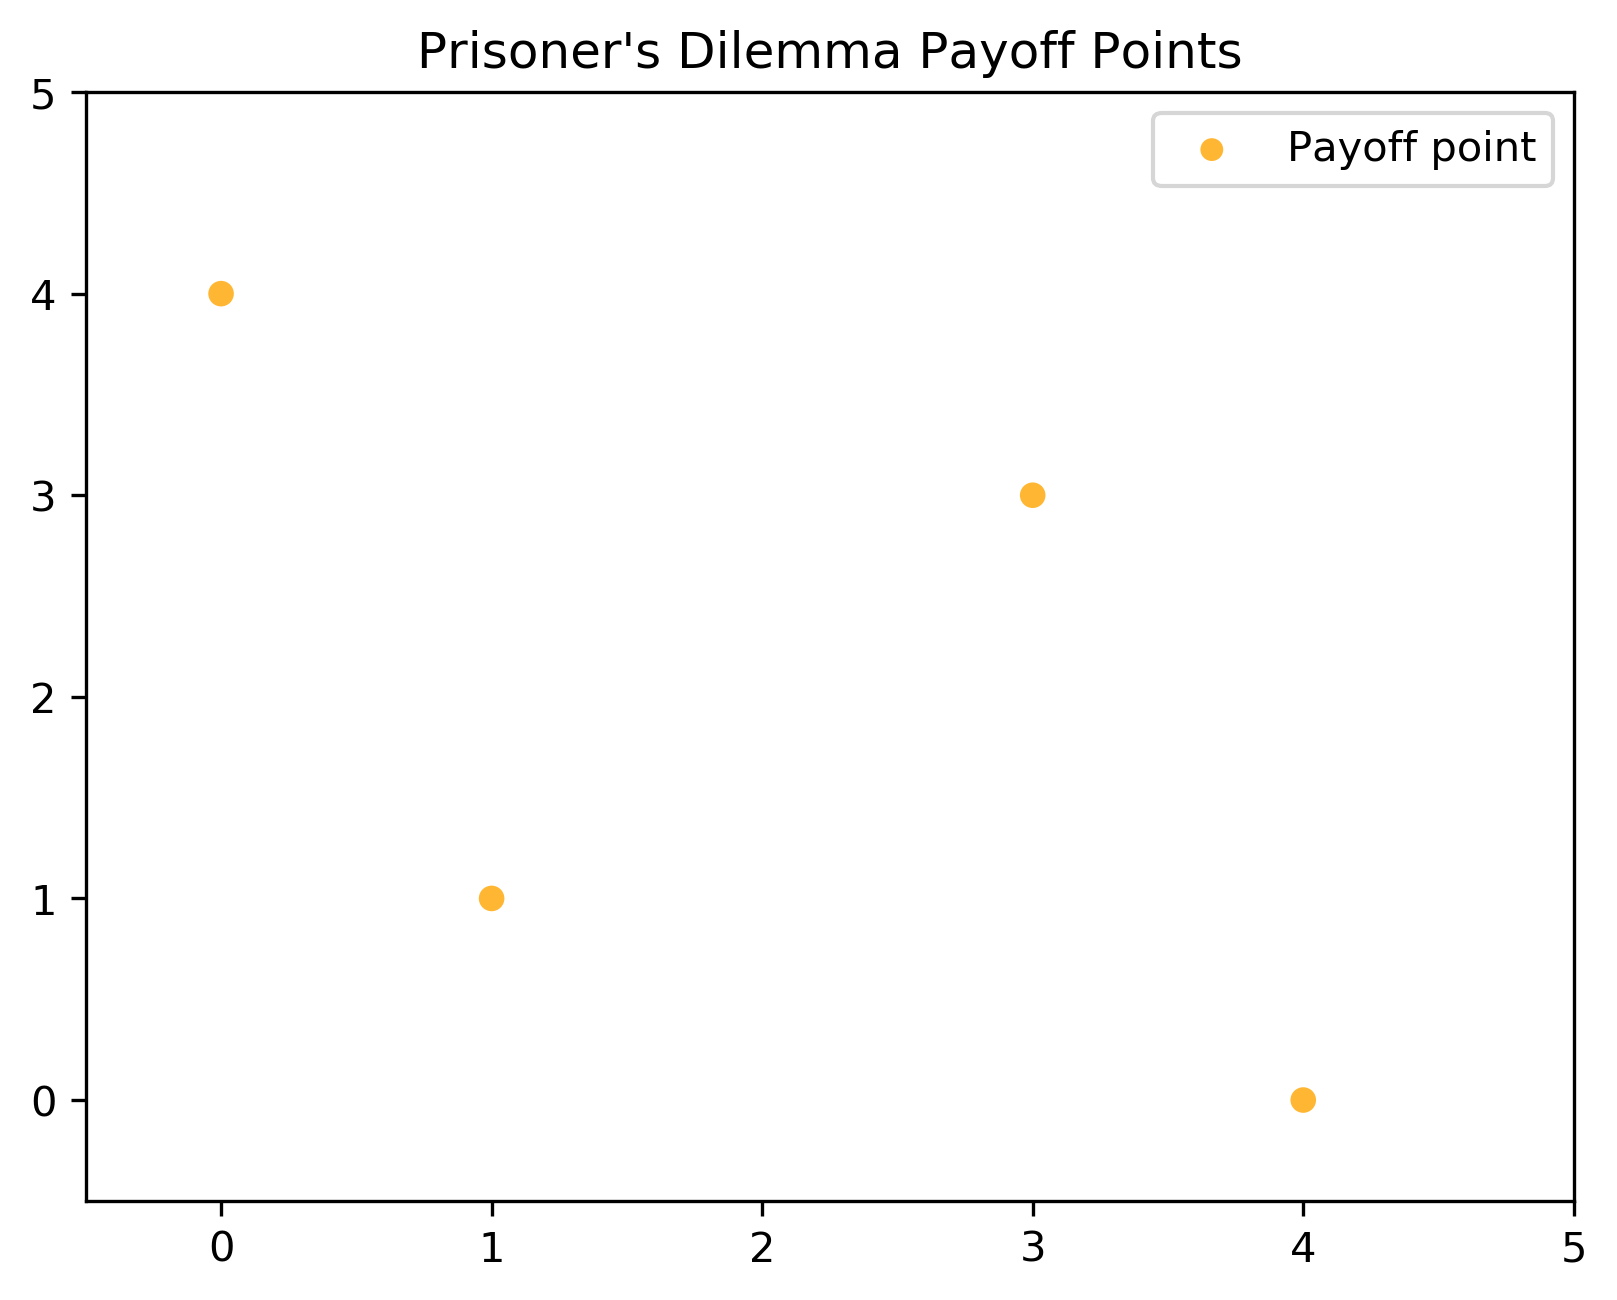
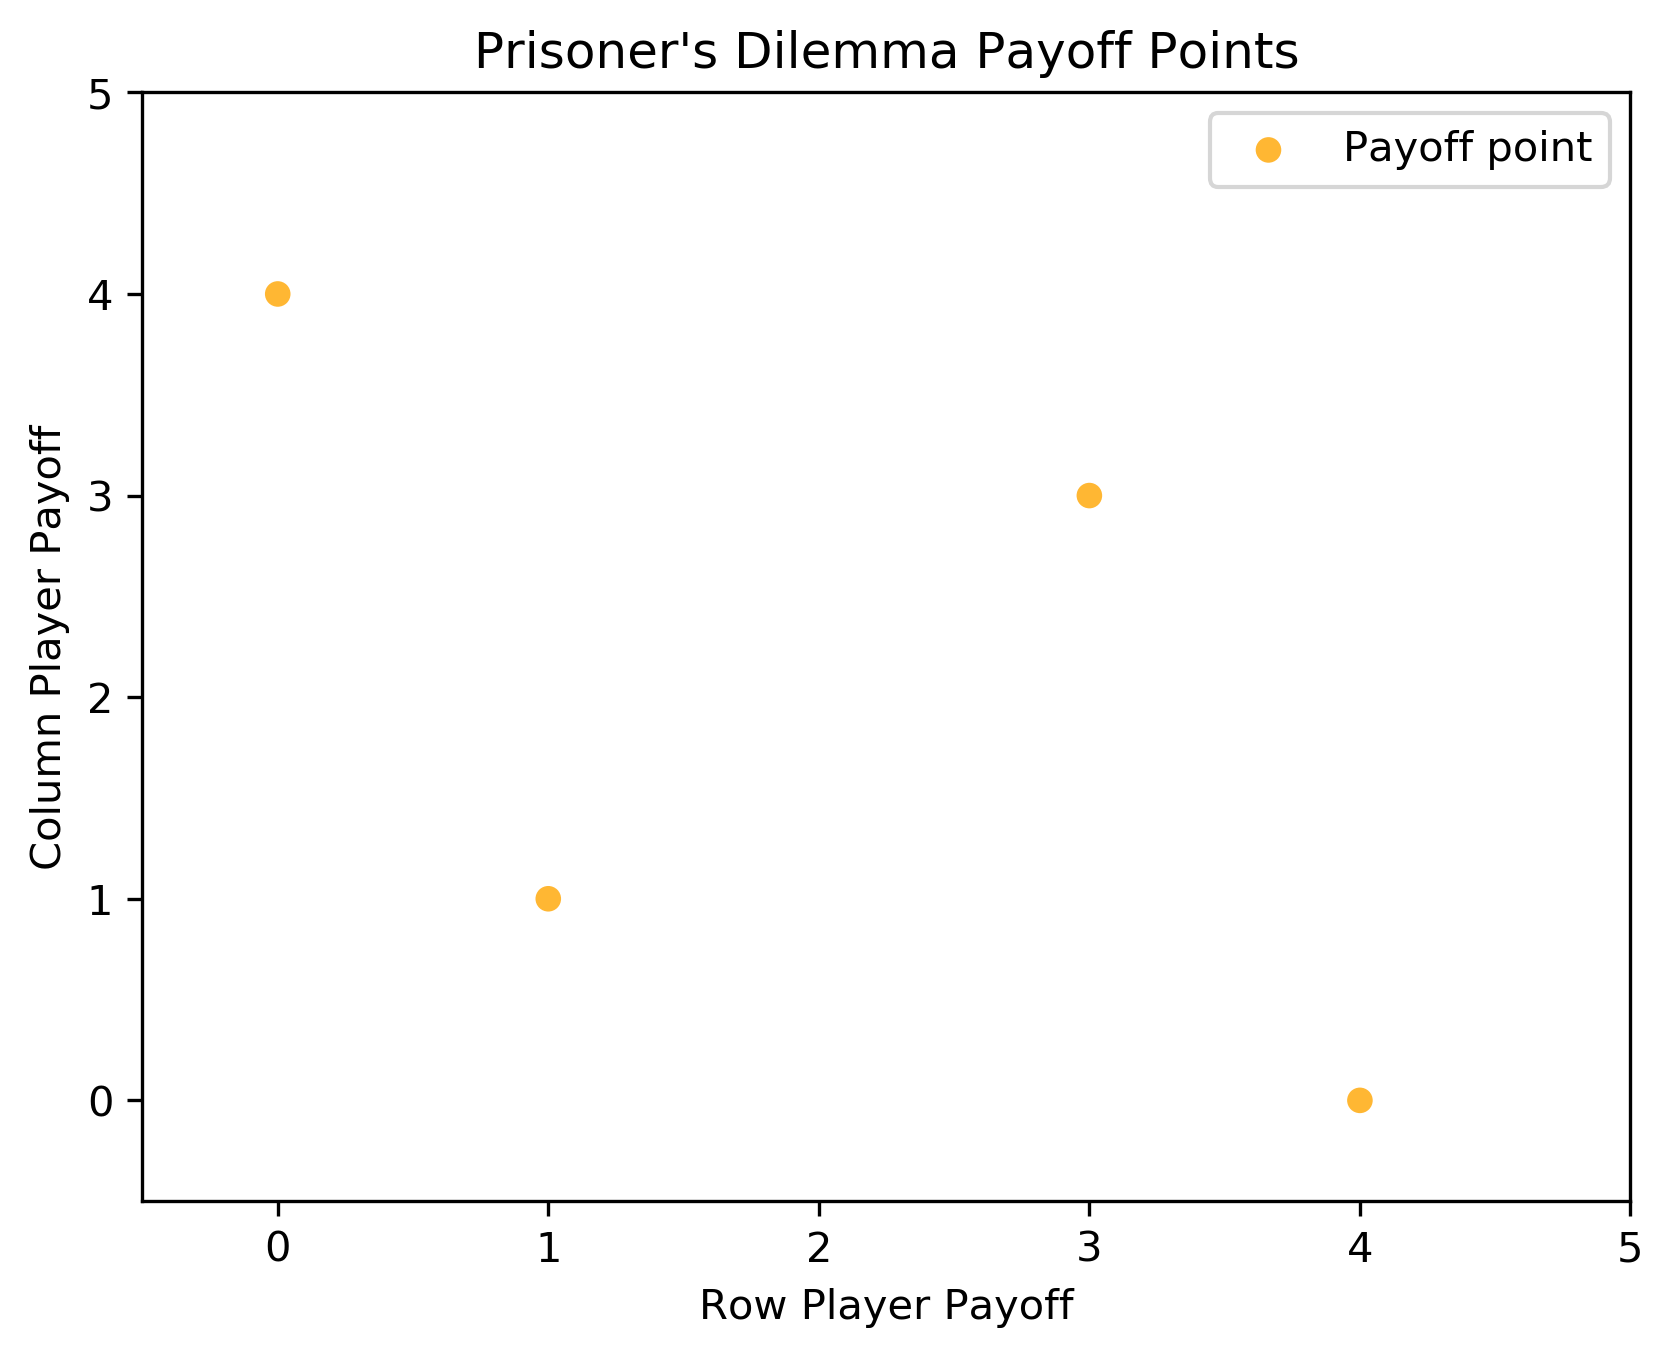
Work on results section  + scripts to generate figs

diff --git a/docs/thesis/thesis.tex b/docs/thesis/thesis.tex
@@ -92,6 +92,7 @@
 
 \tableofcontents
 \newpage
+\listoffigures
 \chapter{Introduction}
 \section{Preamble}
 \section{Motivation \& Objectives}
@@ -114,7 +115,7 @@ This work finds that under certain assumptions a utility function that is centre
 This utility function is given in equation \ref{linearESSEquation}, in which \textit{x} and \textit{y} are types in the population and $\alpha$ is equal to the \textit{index of assortativity}.
 \begin{equation}
 	\label{linearESSEquation}
-	u_\alpha(x, y, ) = \Pi(x,y) + \alpha\Pi(y,x)
+	u_\alpha(x, y) = \Pi(x,y) + \alpha\Pi(y,x)
 \end{equation}
 
 \noindent To achieve this, the authors assume that all types have a utility function of the same form as \ref{linearESSEquation} where $\alpha \in (-1, 1)$ \citep[p. ~47]{alger_generalization_2012}.
@@ -144,11 +145,11 @@ An oft used fitness measure requires that for an invasion to occur, a mutant mus
 \np Of course, these assumptions are all made within the context of a model that is static.
 The conclusions drawn in the work referenced above tend to be of the form \textit{should} a utility function of the form \textit{x} evolve it will result in evolutionary stable play given the assumptions.
 The experimental framework we create intends to investigate these conclusions and assumptions in a dynamically evolving environment.
-\todo{emphasise how big an asusmption static is}
+\todo{emphasise how big an assumption static is}
 
 
 
-\section{The Experimental Framework}
+\section{The Experimental Framework}\label{experimentalFramework}
 A large part of the work undertaken in support of this research involved the creation of an experimental framework that could be used to attempt to recover the results of \citet{alger_generalization_2012} in a dynamically evolving environment.
 At a high level this experimental framework is simple, however when digging into the detail, complications arise.
 Fundamentally, the framework is made up of a representation of a utility function, 
@@ -233,8 +234,8 @@ With this assumption in mind, \ref{symmetricGame} shows the payoff structure of 
 For example, using a prisoner's dilemma type we can write down a game with the payoff structure detailed in figure \ref{symmetricGame} with payoffs $c > a > d > b$.
 Next, we investigate how preferences form when individuals play many different symmetric games in one interaction.
 Now, the payoffs $a$ through $d$ are determined as follows:
-\begin{center}
-	
+
+\begin{center}\label{a_through_d}	
 $a \sim U(0,\phi) \qquad a \in I$
 
 $b \sim U(0,\phi) \qquad b \in I$
@@ -266,33 +267,6 @@ Both of these representations will be discussed in detail in the following chapt
 
 \chapter{Results \& Discussion}\label{results_discussion}
 
-\paragraph{Games matter}
-		
-> Must sample many different kinds of games.
-\np When running simulations in which each type's fitness is determined by their expected payoff when playing the above game,
-it becomes clear that only mutations that occur near to the payoff points ever lead to invasions. 
-The payoff points are the four potential outcomes (in terms of payoffs for each player) of the game: (3,3), (0,4), (4, 0) \& (1, 1).
-Plotted in figure \ref{prisoners_payoff_plot}.
-\begin{figure}
-	\centering
-	\includegraphics[scale=0.75]{resources/prisoners_dilemma_payoffs.png}
-	\caption{The payoff points in a prisoner's dilemma game.}
-	\label{prisoners_payoff_plot}
-\end{figure}
-
-\np The fact that limited invasions occur in this scenario makes sense when several facts about the model are considered:
-\begin{enumerate}[label=(\alph*)]
-	\item mutations can occur anywhere within the space and are small.
-	\item the fitness of the agents (resident and mutant) is equal in areas of the surface not affected by the mutation.
-	\item for a mutant to invade, they must achieve a fitness \textit{greater} than that achieved by the resident - as opposed to greater than or equal to.	
-\end{enumerate} 
-\np
-So, if a mutation occurs at the point (2, 2), given that this mutation has a relatively small radius, 
-the expected payoff of the mutant will not differ from that of the resident because the mutation does not touch any of the payoff points.
-Hence, the fitnesses are equal, and no invasion occurs. Running large scale simulations using this model results in `utility surfaces' like figure \todo{prisoner's dillema run}.
-
-> JTB result is strongly dependent on the assumption of symmetric games.
-
 \noindent> Phenotypic mutation takes ages.
 
 \noindent> Successful symbolic regression results are strongly dependent on un-biased (or maybe `biased in the right way') grammars.
@@ -311,7 +285,6 @@ Figure \ref{selfishUtilitySurface} is an example of a purely selfish utility sur
 	\caption{An example of a purely selfish type represented as a `utility surface'.}
 	\label{selfishUtilitySurface}
 \end{figure}
-
 
 \np This method has two immediate limitations. 
 The first is that the matrix is only defined for a certain payoff range and so a value, $\phi$ must be provided that represents the maximum \textit{payoff} achievable by either individual.
@@ -339,17 +312,90 @@ Figure \ref{selfishUtilityGrid} is an example of the grid values of a utility su
 This perturbation takes the shape of a bivariate normal distribution with some random $\sigma$, $\sigma \leq \gamma$, where $\gamma$ is parameter of the model.
 This method ensures that mutations are small.
 It also has the effect of creating \textit{localised} mutations: mutations that only affect a certain area of the surface rather than the shape of the surface overall.
-It turns out that the localised nature of these mutations is important and will be discussed in proceeding sections. Figure 
+It turns out that the localised nature of these mutations is important and will be discussed in proceeding sections.
+Figure \ref{selfishUtilitySurfaceOneMutation} shows our selfish utility surface from \ref{selfishUtilitySurface} after one mutation has been applied.
 
 \begin{figure}
 	\centering
-	\includegraphics[scale=0.75]{resources/one_mutation.png}
+	\includegraphics[scale=0.7]{resources/one_mutation.png}
 	\caption{The selfish utility surface after one mutation has been applied at the point (3, 3).}
 	\label{selfishUtilitySurfaceOneMutation}
 \end{figure}
 
+\subsection{Games Matter}
+
+One of the things that we learn by subjecting the described phenotype to evolution is that the kinds of games that are used to evaluate the fitness of individuals are important.
+We begin with a model that uses only a single kind of game to evaluate the fitness of individuals.
+Next we move to a conception of fitness that is an aggregation of individuals performance in many different kinds of games.
+We use this conception in the symmetric and asymmetric case.
+
+\paragraph{Single-Game Fitness Measure}
+\np In \ref{experimentalFramework} we discuss an approach in which individual fitness is determined based off  how the types perform in one common kind of non-cooperative game, namely prisoner's dilemma.
+Using the game structure defined in figure \ref{symmetricGame} we can construct a prisoner's dilemma by setting the following payoffs:
+\begin{gather*}
+	a = 3\\
+	b = 0\\
+	c = 4\\
+	d = 1
+\end{gather*}
+
+\np When running simulations in which each type's fitness is determined by their expected payoff when playing the above game,
+it becomes clear that only mutations that occur near to the payoff points ever lead to invasions. 
+The payoff points are the four potential outcomes (in terms of payoffs for each player) of the game: (3,3), (0,4), (4, 0) \& (1, 1).
+Plotted in figure \ref{prisoners_payoff_plot}.
+\begin{figure}
+	\centering
+	\includegraphics[scale=0.5]{resources/prisoners_dilemma_payoffs.png}
+	\caption{The payoff points in a prisoner's dilemma game.}
+	\label{prisoners_payoff_plot}
+\end{figure}
+
+\np The fact that limited invasions occur in this scenario makes sense when several facts about the model are considered:
+\begin{enumerate}[label=(\alph*)]
+	\item mutations can occur anywhere within the space and are small.
+	\item the fitness of the individuals (resident and mutant) is equal in areas of the surface not affected by the mutation.
+	\item for a mutant to invade, they must achieve a fitness \textit{greater} than that achieved by the resident - as opposed to greater than or equal to.	
+\end{enumerate} 
+\np
+So, if a mutation occurs at the point (2, 2), given that this mutation has a relatively small radius, 
+the expected payoff of the mutant will not differ from that of the resident because the mutation does not touch any of the payoff points.
+Hence, the fitnesses are equal, and no invasion occurs.
+Running large scale simulations using this model results in `utility surfaces' like figure 
+\np \todo{prisoner's dilemma run}.
+\todo{distance/fitness measure of prisoner's dilemma run}
+
+\np So, while our source material tends to equivocate in regard to what kinds of games are played,
+a dynamically evolving system shows that evaluating individual fitnesses using performance in only one kind of game 
+does not generate meaningful results. Next, we focus on a  measure in which fitness is based upon the individual's aggregated performance across many games.
+
+\paragraph{Many-Game Fitness Measure}
+\np We move to a discussion of the results generated by simulations that measure fitness as an average of the payoff earned by individuals across many symmetric games.
+Now, the games that individuals play in determining fitness contain payoffs as described in \ref{a_through_d}, where $a$ through $d$ are independent and identically distributed random variables.
+Leading on from our note in the preceding that single-game fitness leads to an exorbitantly high number of mutations that do not lead to an invasion, analogously, 
+localised mutations and randomly sampled games is computationally very inefficient. So, we first look at a more efficient sampling mechanism before discussing our main result.
+
+\np Sampling many symmetric games creates a payoff-point plot that is symmetric about the line of equality and the line of equality is heavily sampled relative to the rest of the space.
+This is because two of the four payoff points in each sampled game fall on the line of equality.
+If we imagine the payoff-point plot (e.g. figure \ref{prisoners_payoff_plot}) as being a top-down view of one of our utility surfaces,
+then we can randomly place a mutation amongst the randomly sampled payoff-points to visualise the amount of waste that occurs when sampling like this.
+Figure \ref{symmetric_payoff_plot} shows a randomly sampled mutation 
+\begin{figure}
+	\centering
+	\includegraphics[scale=0.7]{resources/scatter_symmetric_mutation.png}
+	\caption{Payoff-points of 40 randomly sampled games.}
+	\label{symmetric_payoff_plot}
+\end{figure}
+
+
+\todo{below list}
+\np > How inefficient is \ref{symmetric_payoff_plot}
+\np > We use a better technique - localised
+\np > Surfaces evolved tend towards favouring "winning" rather than pure-selfishness > fig of average surface.
+\np > While not exactly the prediction, relatively close > fig distance box plot.
+\np > These surfaces perform well against the surface predicted by JTB, but poor against themselves so would be poor resident > fig box plot.
 
 \section{Symbolic Regression}
+> JTB result is strongly (?) dependent on the assumption of symmetric games.
 
 \chapter{Conclusion}
 

diff --git a/src/python/evolving_games/plot_r_0_symmetric.py b/src/python/evolving_games/plot_r_0_symmetric.py
@@ -1,0 +1,139 @@
+"""
+A script used for making plots of outputs - not properly part of the 'evolving_games' codebase.
+"""
+
+
+import matplotlib.pyplot as plt
+from mpl_toolkits.mplot3d import Axes3D
+import numpy as np
+
+
+from paramless import utils
+from paramless.utilitySurface import UtilitySurface
+from paramless.game import Game
+
+
+def _surface_distance(u, v):
+    """
+    Calculates the sum of euclidian distance between respective points in two given surfaces.
+    Used as a distance function.
+    Assumes that the arrays representing the surfaces are the same shape.
+    """
+    total = 0
+    for i in range(len(u)):
+        for j in range(len(u[i])):
+            one_point_dist = (u[i][j] - v[i][j]) ** 2
+            total += np.sqrt(one_point_dist)
+
+    return total
+
+
+def test_fitness_symmetric(target: UtilitySurface, evolved: UtilitySurface, rounds=200, max_payoff=5, **kwargs):
+    target_fitness, evolved_fitness = 0, 0
+    for _ in range(rounds):
+        # Generating game for the round
+        payoff_array = np.zeros(4)
+        # A
+        payoff_array[0] = np.random.random(1) * 5
+        # D
+        payoff_array[3] = np.random.random(1) * 5
+        # B
+        payoff_array[1] = np.random.random(1) * 5
+        # C
+        payoff_array[2] = np.random.random(1) * 5
+
+        resident_payoffs = np.reshape(payoff_array, (-1, 2))
+        mutant_payoffs = np.reshape(np.transpose(resident_payoffs), (-1, 2))
+
+        game: Game = Game(resident_payoffs, mutant_payoffs)
+
+        # Converting to utility based game
+        t_e_utility_game = game.utility_transform(target, evolved)
+
+        # List of equilibrias
+        t_e_eqs = list(t_e_utility_game.support_enumeration())
+
+        # Calculates the fitness as specified in ALger & Weibull 2012,  pg. 44, equations 4,5
+        curr_t_e_payoff = 0
+        curr_e_t_payoff = 0
+        for eq in t_e_eqs:
+            t, e = game.expected_payoff(eq)
+            curr_t_e_payoff += t
+            curr_e_t_payoff += e
+
+        curr_t_e_payoff /= len(t_e_eqs)
+
+
+        curr_e_t_payoff /=len(t_e_eqs)
+ 
+
+        target_fitness += curr_t_e_payoff
+        evolved_fitness += curr_e_t_payoff
+
+    return target_fitness/rounds, evolved_fitness/rounds
+
+
+
+if __name__ == '__main__':
+    selfish = UtilitySurface.selfish(5, 0.1)
+    x = np.arange(0, 5, 0.1)
+
+
+    path_to_plot_csv = 'C:\\Users\\snpar\\Honours\\preference-evolution\\data\\last_try\\symmetric\\csv_files\\initial_selfless\\r_0.0\\average_surface.csv'
+    path_to_dir = 'C:\\Users\\snpar\\Honours\\preference-evolution\\data\\last_try\\symmetric\\csv_files\\initial_selfless\\r_0.0\\'
+
+    time_series = np.array(utils.csv_to_time_series_array(path_to_plot_csv))
+
+    # curr = UtilitySurface(x, x, time_series[-1], 0.1)
+
+    # surface_array = utils.array_final_matrices_in_dir(path_to_dir)
+    distances = []
+    fitnesses_against_target = []
+    fitness_against_self = []
+    fitnesses_target_target = []
+
+    # for surface in surface_array:
+    #     distances.append(_surface_distance(selfish.utility_grid, surface))
+    #     # curr = UtilitySurface(x, x, surface, 0.1)
+    #     fitnesses_against_target.append(test_fitness_symmetric(selfish, curr)[1])
+    #     fitness_against_self.append(test_fitness_symmetric(curr, curr)[1])
+    #     fitnesses_target_target.append(test_fitness_symmetric(selfish, selfish)[0])
+
+
+    # # fig, ax = plt.subplots()
+    # # ax.set_title("Distance between evolved surfaces and Target Surface")
+    # # ax.boxplot(distances)
+    # # plt.show()
+
+    # fitness_of_target = test_fitness_symmetric(selfish, selfish)
+    # print("Fitness of target: {}".format(fitness_of_target))
+
+    # fig, ax = plt.subplots()
+    # ax.set_title("Fitness earned by Evolved surfaces against Target Surface")
+    # data = [fitnesses_against_target, fitness_against_self, fitnesses_against_target]
+    # l = ["Evolved vs. Target", "Evolved vs. self", "Target vs. self"]
+    # ax.set_xticklabels(l, fontsize=10)
+    # ax.boxplot(data)
+
+    # plt.xticks([1,2,3], l)
+
+
+    # plt.show()
+
+
+    payoff_size = 5
+    x = np.arange(0, 5, 0.1)
+    X, Y = np.meshgrid(x, x, indexing='ij')
+
+    # Make a 3D plot
+    fig = plt.figure()
+    ax = fig.add_subplot(111, projection='3d')
+    ax.plot_surface(X, Y, time_series[-1], cmap='viridis', linewidth=0)
+    ax.set_title('Evolved Surface')
+    ax.set_xlabel('My Payoff')
+    ax.set_ylabel("Opponent's Payoff")
+    ax.set_zlabel('My Utility')
+    ax.view_init(elev=25, azim=-161)
+
+    plt.savefig("average_r_0_symmetric_evolved.png")
+    plt.show()

diff --git a/src/python/symmetric_games_and_random_mutations/scatter_symmetric.py b/src/python/symmetric_games_and_random_mutations/scatter_symmetric.py
@@ -2,7 +2,7 @@ import numpy as np
 import matplotlib.pyplot as plt
 
 # Create data
-N = 100
+N = 40
 x = np.array([])
 y = np.array([])
 
@@ -20,7 +20,7 @@ mean = (x_mean, y_mean)
 
 data = (mean, (x,y))
 colors = ("green", "pink")
-groups = ("mutation", "payoffs")
+groups = ("Mutation", "Payoff-point")
 areas = (np.pi*200, np.pi*5)
 
 # Create plot
@@ -31,6 +31,12 @@ for data, color, group, area in zip(data, colors, groups, areas):
     x, y = data
     ax.scatter(x, y, s=area, alpha=0.8, c=color, edgecolors='none', label=group)
 
-plt.title('Symmetric Games')
-plt.legend(loc=2)
+plt.title('Payoff-points of Symmetric Games')
+# plt.legend(loc=2)
+lgnd = plt.legend(loc=2, scatterpoints=1, fontsize=10)
+lgnd.legendHandles[0]._sizes = [50]
+lgnd.legendHandles[1]._sizes = [30]
+plt.xlabel("My Payoff")
+plt.ylabel("Opponent Payoff")
+plt.savefig("scatter_symmetric_mutation.png")
 plt.show()
